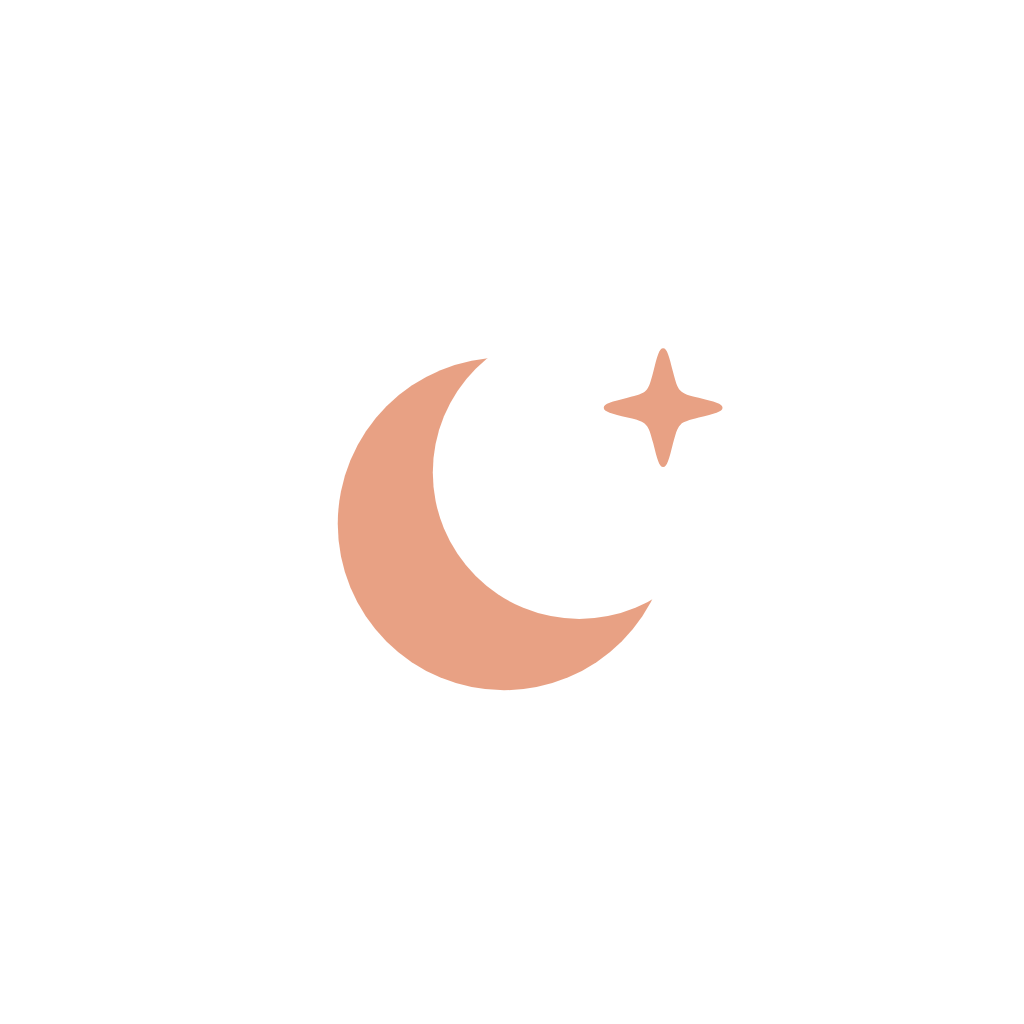
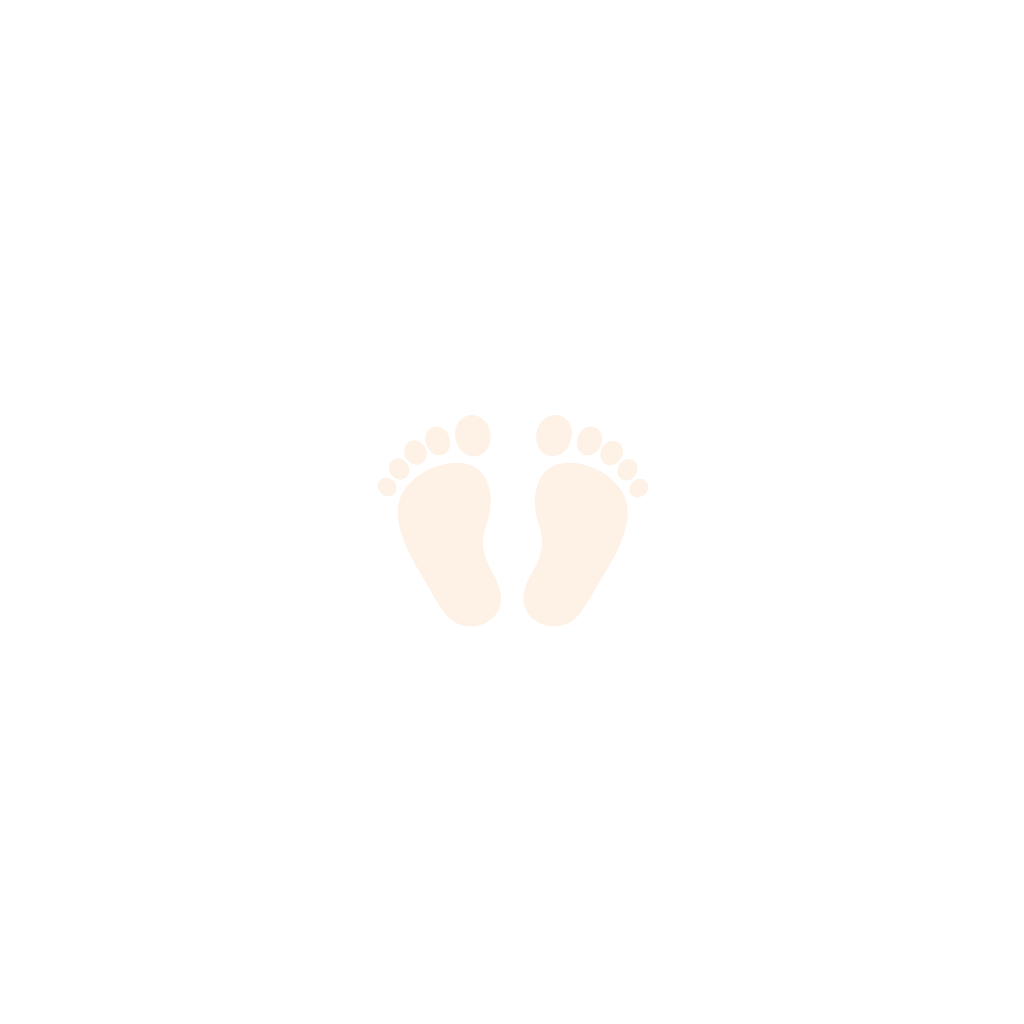
feat(brand): финальная иконка LittleGuide — ножки на шалфейной плитке
Эталон Вугара обведён в вектор: ступни трассированы из растра (12 фигур,
гладкие безье), ромб пересобран по обмерам (полудиагональ 414,4, штрих 65,
скругление 40). Совпадение с эталоном: IoU ромба 0,934, ступней 0,943.

Цвета из эталона: шалфей #6C8265, ножки #FEF2E7. Пересобраны icon,
adaptive-icon и splash, adaptiveIcon.backgroundColor переведён на шалфей.
icon.png рендерится во всю плитку без скруглений — маску ставит ОС.
Splash на скруглённой плитке, иначе белый ромб не виден на светлом фоне.

Changed region(s): [[0.3125, 0.3438, 0.625, 0.6875], [0.5938, 0.3438, 0.7188, 0.4688]]

diff --git a/docs/state/2026-08-23-littleguide-expo.md b/docs/state/2026-08-23-littleguide-expo.md
@@ -48,25 +48,31 @@ wrangler грузил их как «Unsafe Metadata», и `env.RATE_BURST.limit(
 Иконка, adaptive-icon и splash рендерятся скриптом `mobile/scripts/shoot-brand.py` из одного
 исходника `scripts/brand.html` — правится один SVG, пересобираются все три PNG.
 
-### Иконка — раунд выбора (25.08, в работе)
+### Иконка — закрыто (25.08)
 
-Концепты в `design/icon-concepts/` (там же `README.md` с историей всех раундов и витрины
-`contact-sheet*.png`). Выбрано и зафиксировано Вугаром:
+Вугар прислал эталонный растр (сохранён как `design/icon-concepts/_ref-uploaded-2026-08-25.png`)
+и утвердил его как финальную иконку LittleGuide.
 
-- **Знак — ножки младенца** (вариант J), перерисованы по присланному им эталону: бобовидная
-  подошва с глубоким вырезом свода, крупная круглая пятка, пять раздельных овальных пальцев
-  веером, большие пальцы и своды смотрят внутрь.
-- **Фон — «Шалфей» `#6E8467`**, ножки `#FFF3E8`.
-- **Рамка семьи не меняется**: плитка `rx 213/1024` + белый ромб (вершины 16,7 / 83,3 %,
-  штрих `96`, `stroke-linejoin: round`) — та же грамматика, что у AsbestosGuard и Gymbar.
-- Масштаб рисунка подобран расчётом: максимум `|dx|+|dy|` = **250** при внутренней кромке
-  ромба **273**, то есть ножки гарантированно не касаются ромба.
+- **Знак — ножки младенца** на шалфейной плитке внутри белого ромба: та же грамматика рамки,
+  что у AsbestosGuard и Gymbar.
+- **Цвета взяты из эталона**: шалфей `#6C8265`, ножки `#FEF2E7`, ромб белый.
+- **Ступни обведены из растра в вектор** (12 замкнутых фигур, гладкие безье) — рисовать их
+  руками означало бы «похоже», а не «точно так».
+- **Ромб пересобран по обмерам растра**: полудиагональ осевой линии `414,4`, штрих `65`,
+  скругление углов `40`, `stroke-linejoin: round`. Параметры подобраны перебором по совпадению
+  с эталоном: IoU ромба **0,934**, ступней **0,943** — остаток это дрожание самого AI-растра,
+  повторять его не нужно.
 
-Готовый файл: **`design/icon-concepts/sage-r4-ref.svg`**.
+Эталонный вектор: **`design/icon-concepts/sage-r6-exact.svg`**, он же вшит в
+`mobile/scripts/brand.html`.
 
-▶ Хвост по иконке (не сделано): перенести этот SVG в `mobile/scripts/brand.html` вместо
-нынешнего градиента с полумесяцем, пересобрать три PNG (`python3 mobile/scripts/shoot-brand.py`)
-и поменять `adaptiveIcon.backgroundColor` в `mobile/app.json` с `#F2E7DE` на `#6E8467`.
+⚠ **`icon.png` рендерится во всю плитку без скруглений.** Эталон скруглён и с белыми углами —
+для стора так нельзя, маску ставит сама ОС, иначе углы проступят поверх системной маски.
+Splash рисуется на шалфейной плитке со скруглением: на светлом фоне `#FBF6F1` белый ромб
+без плитки был бы не виден.
+
+Ассеты для консолей сторов лежат отдельно: `design/store/appstore-icon-1024.png`
+и `design/store/play-icon-512.png` (листинг Play иконку из билда не берёт, грузится руками).
 
 ▶ Дальше: этап 6 (фото/аудио дневника, экспорт-импорт) и этап 7 (анкеты сторов).
 🔴 До публичного релиза (не для теста): анкеты Play «Контент приложения» — политика

diff --git a/design/icon-concepts/README.md b/design/icon-concepts/README.md
@@ -139,3 +139,17 @@
 Файл: **`sage-r4-ref.svg`** (фон `#6E8467`, ножки `#FFF3E8`). Витрина: `contact-sheet-6.png`,
 исходник `all6.html` — новая против предыдущей, размеры 120/72/48/28 px, домашний экран на
 тёмных и светлых обоях.
+
+## Финал — 25.08.2026
+
+Вугар прислал эталонный растр (`_ref-uploaded-2026-08-25.png`, генерация Codex) и утвердил его
+как иконку LittleGuide. Раунды ниже закрыты, дальше их не перебираем.
+
+Финальный вектор — **`sage-r6-exact.svg`**:
+- ступни обведены из растра в вектор (12 фигур, гладкие безье);
+- ромб построен по обмерам растра: полудиагональ `414,4`, штрих `65`, скругление `40`;
+- цвета из эталона: шалфей `#6C8265`, ножки `#FEF2E7`, ромб белый;
+- совпадение с эталоном: IoU ромба 0,934, ступней 0,943.
+
+Тот же рисунок вшит в `mobile/scripts/brand.html` — три PNG пересобираются командой
+`python3 mobile/scripts/shoot-brand.py` (Chromium не стартует из песочницы агента).
